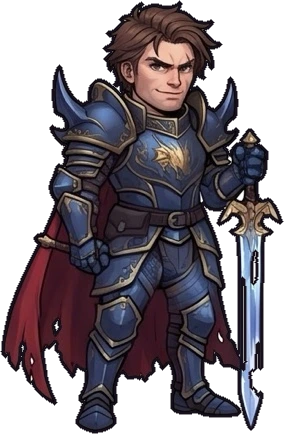
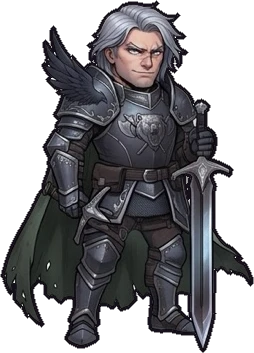
Dragonbound 3.4: les 5 héros redessinés en chibi dark avec 9 poses chacun (repos, préparation, frappe, coup reçu, défense, spécial, sort, victoire, K.O.)
Claude-Session: https://claude.ai/code/session_01RVFF6aQ8Rrf5QFv7wAnNwn

diff --git a/prototype/dragonbound/sw.js b/prototype/dragonbound/sw.js
@@ -1,6 +1,6 @@
 // Offline support: the app shell is cached on first visit, fonts as they load.
-const CACHE = 'dragonbound-v45';
-const SHELL = ['./', 'index.html', 'manifest.webmanifest', 'apple-touch-icon.png', 'icon-192.png', 'icon-512.png', 'img/a0amulette.webp', 'img/a0armure.webp', 'img/a0bottes.webp', 'img/a0casque.webp', 'img/a1amulette.webp', 'img/a1armure.webp', 'img/a1bottes.webp', 'img/a1casque.webp', 'img/a2amulette.webp', 'img/a2armure.webp', 'img/a2bottes.webp', 'img/a2casque.webp', 'img/a3amulette.webp', 'img/a3armure.webp', 'img/a3bottes.webp', 'img/a3casque.webp', 'img/a4amulette.webp', 'img/a4armure.webp', 'img/a4bottes.webp', 'img/a4casque.webp', 'img/a5amulette.webp', 'img/a5armure.webp', 'img/a5bottes.webp', 'img/a5casque.webp', 'img/a8amulette.webp', 'img/a8armure.webp', 'img/a8bottes.webp', 'img/a8casque.webp', 'img/a9amulette.webp', 'img/a9armure.webp', 'img/a9bottes.webp', 'img/a9casque.webp', 'img/aLegAmu.webp', 'img/aLegArm.webp', 'img/aLegHelm.webp', 'img/archer-face.webp', 'img/archer.webp', 'img/armor.webp', 'img/banshee.webp', 'img/bat.webp', 'img/bear.webp', 'img/bg0_0.webp', 'img/bg0_1.webp', 'img/bg0_2.webp', 'img/bg0_3.webp', 'img/bg0_4.webp', 'img/bg1_0.webp', 'img/bg1_1.webp', 'img/bg1_2.webp', 'img/bg1_3.webp', 'img/bg1_4.webp', 'img/bg2_0.webp', 'img/bg2_1.webp', 'img/bg2_2.webp', 'img/bg2_3.webp', 'img/bg2_4.webp', 'img/bg3_0.webp', 'img/bg3_1.webp', 'img/bg3_2.webp', 'img/bg3_3.webp', 'img/bg3_4.webp', 'img/bg4_0.webp', 'img/bg4_1.webp', 'img/bg4_2.webp', 'img/bg4_3.webp', 'img/bg4_4.webp', 'img/bg5_0.webp', 'img/bg5_1.webp', 'img/bg5_2.webp', 'img/bg5_3.webp', 'img/bg5_4.webp', 'img/bg6_0.webp', 'img/bg6_1.webp', 'img/bg6_2.webp', 'img/bg6_3.webp', 'img/bg6_4.webp', 'img/bg7_0.webp', 'img/bg7_1.webp', 'img/bg7_2.webp', 'img/bg7_3.webp', 'img/bg7_4.webp', 'img/bg8_0.webp', 'img/bg8_1.webp', 'img/bg8_2.webp', 'img/bg8_3.webp', 'img/bg8_4.webp', 'img/bg9_0.webp', 'img/bg9_1.webp', 'img/bg9_2.webp', 'img/bg9_3.webp', 'img/bg9_4.webp', 'img/bl_barrier.webp', 'img/bl_dome.webp', 'img/bl_riposte.webp', 'img/bl_roll.webp', 'img/bl_shield.webp', 'img/bossBone.webp', 'img/bossDragon.webp', 'img/bossHag.webp', 'img/bossLich.webp', 'img/bossQueen.webp', 'img/bossRat.webp', 'img/bossVamp.webp', 'img/bossVoid.webp', 'img/bossVort.webp', 'img/bossWitch.webp', 'img/chestR1.webp', 'img/chestR2.webp', 'img/chestR3.webp', 'img/chestR4.webp', 'img/croco.webp', 'img/demon.webp', 'img/dknight.webp', 'img/dmage.webp', 'img/drake.webp', 'img/frog.webp', 'img/garg.webp', 'img/ghoul.webp', 'img/goblin.webp', 'img/golem.webp', 'img/harpy.webp', 'img/hero-face.webp', 'img/hero.webp', 'img/hero2-face.webp', 'img/hero2.webp', 'img/hero2_atk.webp', 'img/hero2_def.webp', 'img/hero2_hit.webp', 'img/hero2_ko.webp', 'img/hero2_prep.webp', 'img/hero2_spe.webp', 'img/hero2_win.webp', 'img/ic_arrow.webp', 'img/ic_dagger.webp', 'img/ic_mace.webp', 'img/ic_smoke.webp', 'img/ic_staff.webp', 'img/ic_sword.webp', 'img/imp.webp', 'img/intro-poster.jpg', 'img/knight.webp', 'img/lich.webp', 'img/logo.webp', 'img/m_bone.webp', 'img/m_dscale.webp', 'img/m_ember.webp', 'img/m_frost.webp', 'img/m_ooze.webp', 'img/m_sap.webp', 'img/m_shard.webp', 'img/m_sludge.webp', 'img/m_t0.webp', 'img/m_t1.webp', 'img/m_t2.webp', 'img/m_t3.webp', 'img/m_t4.webp', 'img/m_t5.webp', 'img/m_t8.webp', 'img/m_t9.webp', 'img/mage-face.webp', 'img/mage.webp', 'img/necro.webp', 'img/pRat.webp', 'img/pVort.webp', 'img/paladin-face.webp', 'img/paladin.webp', 'img/prat.webp', 'img/rat.webp', 'img/rogue-face.webp', 'img/rogue.webp', 'img/salam.webp', 'img/scorp.webp', 'img/shroom.webp', 'img/skel.webp', 'img/slime.webp', 'img/snake.webp', 'img/spBlades.webp', 'img/spFrost.webp', 'img/spHeal.webp', 'img/spRain.webp', 'img/spRoar.webp', 'img/spShadow.webp', 'img/spShield.webp', 'img/spSmite.webp', 'img/spVenom.webp', 'img/spWhirl.webp', 'img/spider.webp', 'img/spirit.webp', 'img/thief.webp', 'img/tslime.webp', 'img/uiAch.webp', 'img/uiChest1.webp', 'img/uiChest2.webp', 'img/uiChest3.webp', 'img/uiDice.webp', 'img/uiDiceCrit.webp', 'img/uiEnPack.webp', 'img/uiEnSmall.webp', 'img/uiEnergy.webp', 'img/uiGem.webp', 'img/uiGems.webp', 'img/uiGold.webp', 'img/uiMats.webp', 'img/uiPity.webp', 'img/uiPotion.webp', 'img/uiQuest.webp', 'img/uiScroll.webp', 'img/uiSell.webp', 'img/vampire.webp', 'img/vbat.webp', 'img/vine.webp', 'img/wAxe.webp', 'img/wCrossbow.webp', 'img/wDaggers.webp', 'img/wElvenbow.webp', 'img/wFangs.webp', 'img/wFlail.webp', 'img/wHammer.webp', 'img/wLegA.webp', 'img/wLegG.webp', 'img/wLegM.webp', 'img/wLegP.webp', 'img/wLegR.webp', 'img/wScepter.webp', 'img/wShadow.webp', 'img/wShortbow.webp', 'img/wStaff.webp', 'img/wSword.webp', 'img/wTome.webp', 'img/warlock.webp', 'img/werewolf.webp', 'img/wisp.webp', 'img/wm0.webp', 'img/wm1.webp', 'img/wm2.webp', 'img/wm3.webp', 'img/wm4.webp', 'img/wm5.webp', 'img/wm6.webp', 'img/wm7.webp', 'img/wm8.webp', 'img/wm9.webp', 'img/wolf.webp', 'img/worldmap.webp', 'img/worldmap2.webp', 'img/yeti.webp', 'img/zombie.webp', 'audio/boss1.mp3', 'audio/dark1.mp3', 'audio/fight1.mp3', 'audio/intro.mp4', 'audio/map1.mp3', 'audio/map2.mp3', 'audio/s_clang.mp3', 'audio/s_impact.mp3', 'audio/s_ring.mp3', 'audio/s_sword.mp3'];
+const CACHE = 'dragonbound-v46';
+const SHELL = ['./', 'index.html', 'manifest.webmanifest', 'apple-touch-icon.png', 'icon-192.png', 'icon-512.png', 'img/a0amulette.webp', 'img/a0armure.webp', 'img/a0bottes.webp', 'img/a0casque.webp', 'img/a1amulette.webp', 'img/a1armure.webp', 'img/a1bottes.webp', 'img/a1casque.webp', 'img/a2amulette.webp', 'img/a2armure.webp', 'img/a2bottes.webp', 'img/a2casque.webp', 'img/a3amulette.webp', 'img/a3armure.webp', 'img/a3bottes.webp', 'img/a3casque.webp', 'img/a4amulette.webp', 'img/a4armure.webp', 'img/a4bottes.webp', 'img/a4casque.webp', 'img/a5amulette.webp', 'img/a5armure.webp', 'img/a5bottes.webp', 'img/a5casque.webp', 'img/a8amulette.webp', 'img/a8armure.webp', 'img/a8bottes.webp', 'img/a8casque.webp', 'img/a9amulette.webp', 'img/a9armure.webp', 'img/a9bottes.webp', 'img/a9casque.webp', 'img/aLegAmu.webp', 'img/aLegArm.webp', 'img/aLegHelm.webp', 'img/archer-face.webp', 'img/archer.webp', 'img/archer_atk.webp', 'img/archer_cast.webp', 'img/archer_def.webp', 'img/archer_hit.webp', 'img/archer_ko.webp', 'img/archer_prep.webp', 'img/archer_spe.webp', 'img/archer_win.webp', 'img/armor.webp', 'img/banshee.webp', 'img/bat.webp', 'img/bear.webp', 'img/bg0_0.webp', 'img/bg0_1.webp', 'img/bg0_2.webp', 'img/bg0_3.webp', 'img/bg0_4.webp', 'img/bg1_0.webp', 'img/bg1_1.webp', 'img/bg1_2.webp', 'img/bg1_3.webp', 'img/bg1_4.webp', 'img/bg2_0.webp', 'img/bg2_1.webp', 'img/bg2_2.webp', 'img/bg2_3.webp', 'img/bg2_4.webp', 'img/bg3_0.webp', 'img/bg3_1.webp', 'img/bg3_2.webp', 'img/bg3_3.webp', 'img/bg3_4.webp', 'img/bg4_0.webp', 'img/bg4_1.webp', 'img/bg4_2.webp', 'img/bg4_3.webp', 'img/bg4_4.webp', 'img/bg5_0.webp', 'img/bg5_1.webp', 'img/bg5_2.webp', 'img/bg5_3.webp', 'img/bg5_4.webp', 'img/bg6_0.webp', 'img/bg6_1.webp', 'img/bg6_2.webp', 'img/bg6_3.webp', 'img/bg6_4.webp', 'img/bg7_0.webp', 'img/bg7_1.webp', 'img/bg7_2.webp', 'img/bg7_3.webp', 'img/bg7_4.webp', 'img/bg8_0.webp', 'img/bg8_1.webp', 'img/bg8_2.webp', 'img/bg8_3.webp', 'img/bg8_4.webp', 'img/bg9_0.webp', 'img/bg9_1.webp', 'img/bg9_2.webp', 'img/bg9_3.webp', 'img/bg9_4.webp', 'img/bl_barrier.webp', 'img/bl_dome.webp', 'img/bl_riposte.webp', 'img/bl_roll.webp', 'img/bl_shield.webp', 'img/bossBone.webp', 'img/bossDragon.webp', 'img/bossHag.webp', 'img/bossLich.webp', 'img/bossQueen.webp', 'img/bossRat.webp', 'img/bossVamp.webp', 'img/bossVoid.webp', 'img/bossVort.webp', 'img/bossWitch.webp', 'img/chestR1.webp', 'img/chestR2.webp', 'img/chestR3.webp', 'img/chestR4.webp', 'img/croco.webp', 'img/demon.webp', 'img/dknight.webp', 'img/dmage.webp', 'img/drake.webp', 'img/frog.webp', 'img/garg.webp', 'img/ghoul.webp', 'img/goblin.webp', 'img/golem.webp', 'img/harpy.webp', 'img/hero-face.webp', 'img/hero.webp', 'img/hero2-face.webp', 'img/hero2.webp', 'img/hero2_atk.webp', 'img/hero2_cast.webp', 'img/hero2_def.webp', 'img/hero2_hit.webp', 'img/hero2_ko.webp', 'img/hero2_prep.webp', 'img/hero2_spe.webp', 'img/hero2_win.webp', 'img/ic_arrow.webp', 'img/ic_dagger.webp', 'img/ic_mace.webp', 'img/ic_smoke.webp', 'img/ic_staff.webp', 'img/ic_sword.webp', 'img/imp.webp', 'img/intro-poster.jpg', 'img/knight.webp', 'img/lich.webp', 'img/logo.webp', 'img/m_bone.webp', 'img/m_dscale.webp', 'img/m_ember.webp', 'img/m_frost.webp', 'img/m_ooze.webp', 'img/m_sap.webp', 'img/m_shard.webp', 'img/m_sludge.webp', 'img/m_t0.webp', 'img/m_t1.webp', 'img/m_t2.webp', 'img/m_t3.webp', 'img/m_t4.webp', 'img/m_t5.webp', 'img/m_t8.webp', 'img/m_t9.webp', 'img/mage-face.webp', 'img/mage.webp', 'img/mage_atk.webp', 'img/mage_cast.webp', 'img/mage_def.webp', 'img/mage_hit.webp', 'img/mage_ko.webp', 'img/mage_prep.webp', 'img/mage_spe.webp', 'img/mage_win.webp', 'img/necro.webp', 'img/pRat.webp', 'img/pVort.webp', 'img/paladin-face.webp', 'img/paladin.webp', 'img/paladin_atk.webp', 'img/paladin_cast.webp', 'img/paladin_def.webp', 'img/paladin_hit.webp', 'img/paladin_ko.webp', 'img/paladin_prep.webp', 'img/paladin_spe.webp', 'img/paladin_win.webp', 'img/prat.webp', 'img/rat.webp', 'img/rogue-face.webp', 'img/rogue.webp', 'img/rogue_atk.webp', 'img/rogue_cast.webp', 'img/rogue_def.webp', 'img/rogue_hit.webp', 'img/rogue_ko.webp', 'img/rogue_prep.webp', 'img/rogue_spe.webp', 'img/rogue_win.webp', 'img/salam.webp', 'img/scorp.webp', 'img/shroom.webp', 'img/skel.webp', 'img/slime.webp', 'img/snake.webp', 'img/spBlades.webp', 'img/spFrost.webp', 'img/spHeal.webp', 'img/spRain.webp', 'img/spRoar.webp', 'img/spShadow.webp', 'img/spShield.webp', 'img/spSmite.webp', 'img/spVenom.webp', 'img/spWhirl.webp', 'img/spider.webp', 'img/spirit.webp', 'img/thief.webp', 'img/tslime.webp', 'img/uiAch.webp', 'img/uiChest1.webp', 'img/uiChest2.webp', 'img/uiChest3.webp', 'img/uiDice.webp', 'img/uiDiceCrit.webp', 'img/uiEnPack.webp', 'img/uiEnSmall.webp', 'img/uiEnergy.webp', 'img/uiGem.webp', 'img/uiGems.webp', 'img/uiGold.webp', 'img/uiMats.webp', 'img/uiPity.webp', 'img/uiPotion.webp', 'img/uiQuest.webp', 'img/uiScroll.webp', 'img/uiSell.webp', 'img/vampire.webp', 'img/vbat.webp', 'img/vine.webp', 'img/wAxe.webp', 'img/wCrossbow.webp', 'img/wDaggers.webp', 'img/wElvenbow.webp', 'img/wFangs.webp', 'img/wFlail.webp', 'img/wHammer.webp', 'img/wLegA.webp', 'img/wLegG.webp', 'img/wLegM.webp', 'img/wLegP.webp', 'img/wLegR.webp', 'img/wScepter.webp', 'img/wShadow.webp', 'img/wShortbow.webp', 'img/wStaff.webp', 'img/wSword.webp', 'img/wTome.webp', 'img/warlock.webp', 'img/werewolf.webp', 'img/wisp.webp', 'img/wm0.webp', 'img/wm1.webp', 'img/wm2.webp', 'img/wm3.webp', 'img/wm4.webp', 'img/wm5.webp', 'img/wm6.webp', 'img/wm7.webp', 'img/wm8.webp', 'img/wm9.webp', 'img/wolf.webp', 'img/worldmap.webp', 'img/worldmap2.webp', 'img/yeti.webp', 'img/zombie.webp', 'audio/boss1.mp3', 'audio/dark1.mp3', 'audio/fight1.mp3', 'audio/intro.mp4', 'audio/map1.mp3', 'audio/map2.mp3', 'audio/s_clang.mp3', 'audio/s_impact.mp3', 'audio/s_ring.mp3', 'audio/s_sword.mp3'];
 
 self.addEventListener('install', e => {
   e.waitUntil(caches.open(CACHE).then(c => c.addAll(SHELL)).then(() => self.skipWaiting()));

diff --git a/prototype/dragonbound/index.html b/prototype/dragonbound/index.html
@@ -870,7 +870,7 @@ body { margin: 0; -webkit-tap-highlight-color: transparent; }
   // 2.5 hero poses (idle / attack / hit / victory), anchored on the torso so switching poses doesn't jump.
   // 3.1 poses for everyone: POSEM[key] = [height ratio to the idle pose, horizontal anchor 0..1 of the body]. Idle = the base image key,
   // other poses are key_atk (attack), key_hit (hurt), key_spe (special / charging), key_def (guard), key_win (victory).
-  const POSEM = { hero2: [1.0, 0.503], hero2_prep: [1.117, 0.456], hero2_atk: [0.796, 0.362], hero2_hit: [0.861, 0.524], hero2_def: [0.733, 0.467], hero2_spe: [0.688, 0.48], hero2_win: [0.935, 0.42], hero2_ko: [0.677, 0.425] };
+  const POSEM = { hero2: [1.0, 0.511], hero2_prep: [1.139, 0.497], hero2_atk: [0.962, 0.329], hero2_hit: [0.932, 0.4], hero2_def: [0.817, 0.451], hero2_win: [0.964, 0.549], hero2_spe: [1.21, 0.356], hero2_ko: [0.705, 0.44], hero2_cast: [0.937, 0.489], archer: [1.0, 0.469], archer_prep: [1.028, 0.438], archer_atk: [0.987, 0.331], archer_hit: [0.919, 0.427], archer_def: [0.786, 0.379], archer_spe: [0.875, 0.332], archer_win: [1.087, 0.576], archer_ko: [0.753, 0.477], archer_cast: [0.903, 0.338], mage: [1.0, 0.397], mage_prep: [0.961, 0.478], mage_atk: [0.955, 0.276], mage_hit: [0.967, 0.531], mage_def: [0.827, 0.473], mage_spe: [0.932, 0.441], mage_win: [1.083, 0.534], mage_ko: [0.988, 0.441], mage_cast: [1.098, 0.4], paladin: [1.0, 0.377], paladin_prep: [1.093, 0.544], paladin_atk: [0.949, 0.336], paladin_hit: [0.979, 0.352], paladin_def: [0.895, 0.421], paladin_spe: [0.943, 0.436], paladin_win: [1.087, 0.453], paladin_ko: [0.817, 0.498], paladin_cast: [0.994, 0.433], rogue: [1.0, 0.537], rogue_prep: [0.939, 0.378], rogue_atk: [0.906, 0.341], rogue_hit: [0.911, 0.581], rogue_def: [0.844, 0.419], rogue_spe: [0.869, 0.516], rogue_win: [1.025, 0.422], rogue_ko: [0.75, 0.439], rogue_cast: [0.833, 0.388] };
   const POSES = {}; const POSE2 = 1;
   function applySkin() { const C = CLASSES.guerrier, v2 = G.skin === 'v2'; C.sprite = v2 ? 'hero2' : 'hero'; C.face = v2 ? 'hero2-face' : 'hero-face'; }
   // filled per class once pose art matching the hero's look exists, e.g. guerrier: { idle: ['hero', 1, 0.5], atk: ['hero_atk', h, anchorX], ... }
@@ -885,7 +885,7 @@ body { margin: 0; -webkit-tap-highlight-color: transparent; }
     if (flash > 0 && WHITE[k]) { const a = c.globalAlpha; c.globalAlpha = flash * a; c.drawImage(WHITE[k], x0, y - hh, w, hh); c.globalAlpha = a; }
   }
   function heroDraw(c, pose, x, y, h, flash, sx = 1, sy = 1) {
-    const b = CL().sprite, FB = { idle2: 'idle', prep: 'atk', ko: 'hit', def: 'idle', spe: 'atk' };
+    const b = CL().sprite, FB = { idle2: 'idle', prep: 'atk', ko: 'hit', def: 'idle', spe: 'atk', cast: 'spe' };
     let pz = pose; while (pz !== 'idle' && !poseKey(b, pz)) pz = FB[pz] || 'idle';
     return poseDraw(c, b, pz, x, y, h, flash, CL().emoji, true, sx, sy);
   }
@@ -1845,7 +1845,7 @@ body { margin: 0; -webkit-tap-highlight-color: transparent; }
       else if (C.atk.fx === 'orb') impact(ex, fy, ['#ffffff', '#9fd0ff', '#cfe4ff'], 0.6, false);
       else burst(ex - 6, fy, ['#ffffff', '#e8d9b0'], 6, 0.8);
       say(r.crit ? `Coup critique ! ${r.d} dégâts.` : `${C.atk.name} : ${r.d} dégâts.`);
-    } else if (kind === 'fire') {
+    } else if (kind === 'fire') { F.hero.spe = now();
       await castPrep(['#ffd76a', '#ff8a3c', '#ff4a2a'], 'rgba(255,150,60,', 320);
       SFX.launch(); SFX.fire(); burst(hx + 30, hyC, ['#fff1a8', '#ffb347', '#ff6a2a'], 10, 1.1); F.hero.lunge = now();
       fx.push({ type: 'ball', t0: now(), dur: 460, x0: hx + 30, y0: hyC, x1: ex, y1: fy }); await wait(460);
@@ -1873,7 +1873,7 @@ body { margin: 0; -webkit-tap-highlight-color: transparent; }
     } else if (kind === 'roar') {
       await castPrep(['#ffb08a', '#ff6a4a'], 'rgba(255,110,80,', 180); SFX.buff(); F.buff = { turns: 3 }; fx.push({ type: 'rings', x: hx, y: hyC, t0: now() }); rise(hx, hy - 10, ['#ff8a6a', '#ffd76a'], 16, 30);
       floatTxt('Force +40 %', hx, hy - H * 0.56, '#ff8a6a', true); say('Cri de guerre ! Ta force augmente pendant 3 tours.'); await wait(500);
-    } else if (kind === 'rain') {
+    } else if (kind === 'rain') { F.hero.spe = now();
       let tot = 0;
       for (let k = 0; k < 3; k++) { SFX.arrow(); fx.push({ type: 'rainArrow', t0: now(), x: ex + (k - 1) * 18, y: fy }); await wait(200);
         const r = dmgCalc(atk * 0.8, F.foe.def); tot += r.d; hitFoe(r.d, r.crit); burst(ex + (k - 1) * 18, fy, ['#fff1a8', '#ffe08a'], 6, 0.8); }
@@ -1883,7 +1883,7 @@ body { margin: 0; -webkit-tap-highlight-color: transparent; }
       const r = dmgCalc(atk * 0.8, F.foe.def); hitFoe(r.d, r.crit, false, '#b6f27a');
       F.foeSt.poison = { dmg: Math.max(1, Math.round(atk * 0.4 * elMult(F.foe.id, 'poison'))), turns: 3 }; fx.push({ type: 'cloud', x: ex, y: fy, t0: now() });
       say(`Flèche empoisonnée : ${r.d} dégâts, l’ennemi est empoisonné.`);
-    } else if (kind === 'smite') {
+    } else if (kind === 'smite') { F.hero.spe = now();
       await castPrep(['#fff1a8', '#ffd76a', '#ffffff'], 'rgba(255,220,120,', 240); SFX.launch();
       fx.push({ type: 'beam', x: ex, y: fy + fh * 0.45, t0: now(), dur: 700 }); await wait(260); SFX.boom();
       const r = dmgCalc(atk * 1.25 + s.mag * 0.7, F.foe.def * 0.5); hitFoe(r.d, r.crit, true, '#ffe58a');
@@ -1899,7 +1899,7 @@ body { margin: 0; -webkit-tap-highlight-color: transparent; }
       await castPrep(['#b08aff', '#6a4aa8'], 'rgba(140,100,220,', 160); SFX.whoosh(); F.shadowCrit = true; F.shadowDodge = true; F.status = {};
       puffs(hx, hyC, ['rgba(80,50,140,.6)', 'rgba(130,90,200,.5)', 'rgba(30,20,50,.6)'], 12, 1.1);
       floatTxt('Dans l\u2019ombre…', hx + 50, hy - H * 0.55, '#c8a8ff', true); say('Pas de l\u2019ombre : tes maux s\u2019effacent, tu esquiveras la prochaine attaque et ton prochain coup sera critique.'); await wait(450);
-    } else if (kind === 'blades') {
+    } else if (kind === 'blades') { F.hero.spe = now();
       let tot = 0; F.hero.wind = now(); await wait(120);
       for (let k = 0; k < 4; k++) { SFX.arrow(); fx.push({ type: 'dagger', dur: 240, t0: now(), x0: hx + 30, y0: hyC - 10 + k * 7, x1: ex + (k % 2 ? 12 : -12), y1: fy - 14 + k * 9 }); await wait(170);
         const r = dmgCalc(atk * 0.62, F.foe.def); tot += r.d; hitFoe(r.d, r.crit, false, '#d8c8ff'); burst(ex, fy - 14 + k * 9, ['#ffffff', '#c8a8ff'], 5, 0.7); }
@@ -2372,7 +2372,7 @@ body { margin: 0; -webkit-tap-highlight-color: transparent; }
       if (F.hero.lunge && F.hero._dl !== F.hero.lunge) { F.hero._dl = F.hero.lunge; puffs(hx, hy - 4, ['rgba(210,190,160,.35)', 'rgba(180,160,130,.3)'], 4, 0.55); }
       const ant = pulse(F.hero.wind || 0, 160), hsx = 1 + ant * 0.05 - lp * 0.05 + hh * 0.06 - breathe * 0.5, hsy = 1 - ant * 0.05 + lp * 0.05 - hh * 0.06;
       const lunging = F.hero.lunge && F.hero.lunge >= (F.hero.wind || 0) && now - F.hero.lunge < 520;
-      const pose = F.hero.ko ? 'ko' : F.hero.win ? 'win' : (F.hero.hit && now - F.hero.hit < 480) ? 'hit' : F.defending ? 'def' : (cast || (F.hero.spe && now - F.hero.spe < 760)) ? 'spe' : lunging ? 'atk' : (F.hero.wind && now - F.hero.wind < 320) ? 'prep' : 'idle';
+      const pose = F.hero.ko ? 'ko' : F.hero.win ? 'win' : (F.hero.hit && now - F.hero.hit < 480) ? 'hit' : F.defending ? 'def' : (F.hero.spe && now - F.hero.spe < 760) ? 'spe' : cast ? 'cast' : lunging ? 'atk' : (F.hero.wind && now - F.hero.wind < 320) ? 'prep' : 'idle';
       if (lp > 0.25 && !reduce) for (let g = 1; g <= 2; g++) { c.save(); c.globalAlpha = 0.16 / g; heroDraw(c, pose, hx + hl * (1 - g * 0.3), hy - hj * (1 - g * 0.3), hH, 0, hsx, hsy); c.restore(); }
       if (F.shadowDodge) c.globalAlpha = 0.5 + 0.1 * Math.sin(now / 200);
       heroDraw(c, pose, hx + hl, hy - hj, hH, hh * 0.7, hsx, hsy);
@@ -2696,7 +2696,7 @@ body { margin: 0; -webkit-tap-highlight-color: transparent; }
 
   // ---------- Start ----------
   // ---------- Version (Bêta 1.0 = first full build with 8 worlds, Forge and difficulty modes) ----------
-  const VERSION = 'Version 3.3';
+  const VERSION = 'Version 3.4';
   document.querySelectorAll('#v-shop').forEach(v => v.insertAdjacentHTML('beforeend', `<div class="ver">StepQuest Dragonbound · ${VERSION}</div>`));
   // ---------- Intro story: painted slides (dedicated intro art if present, else world backgrounds) ----------
   const INTRO = [
